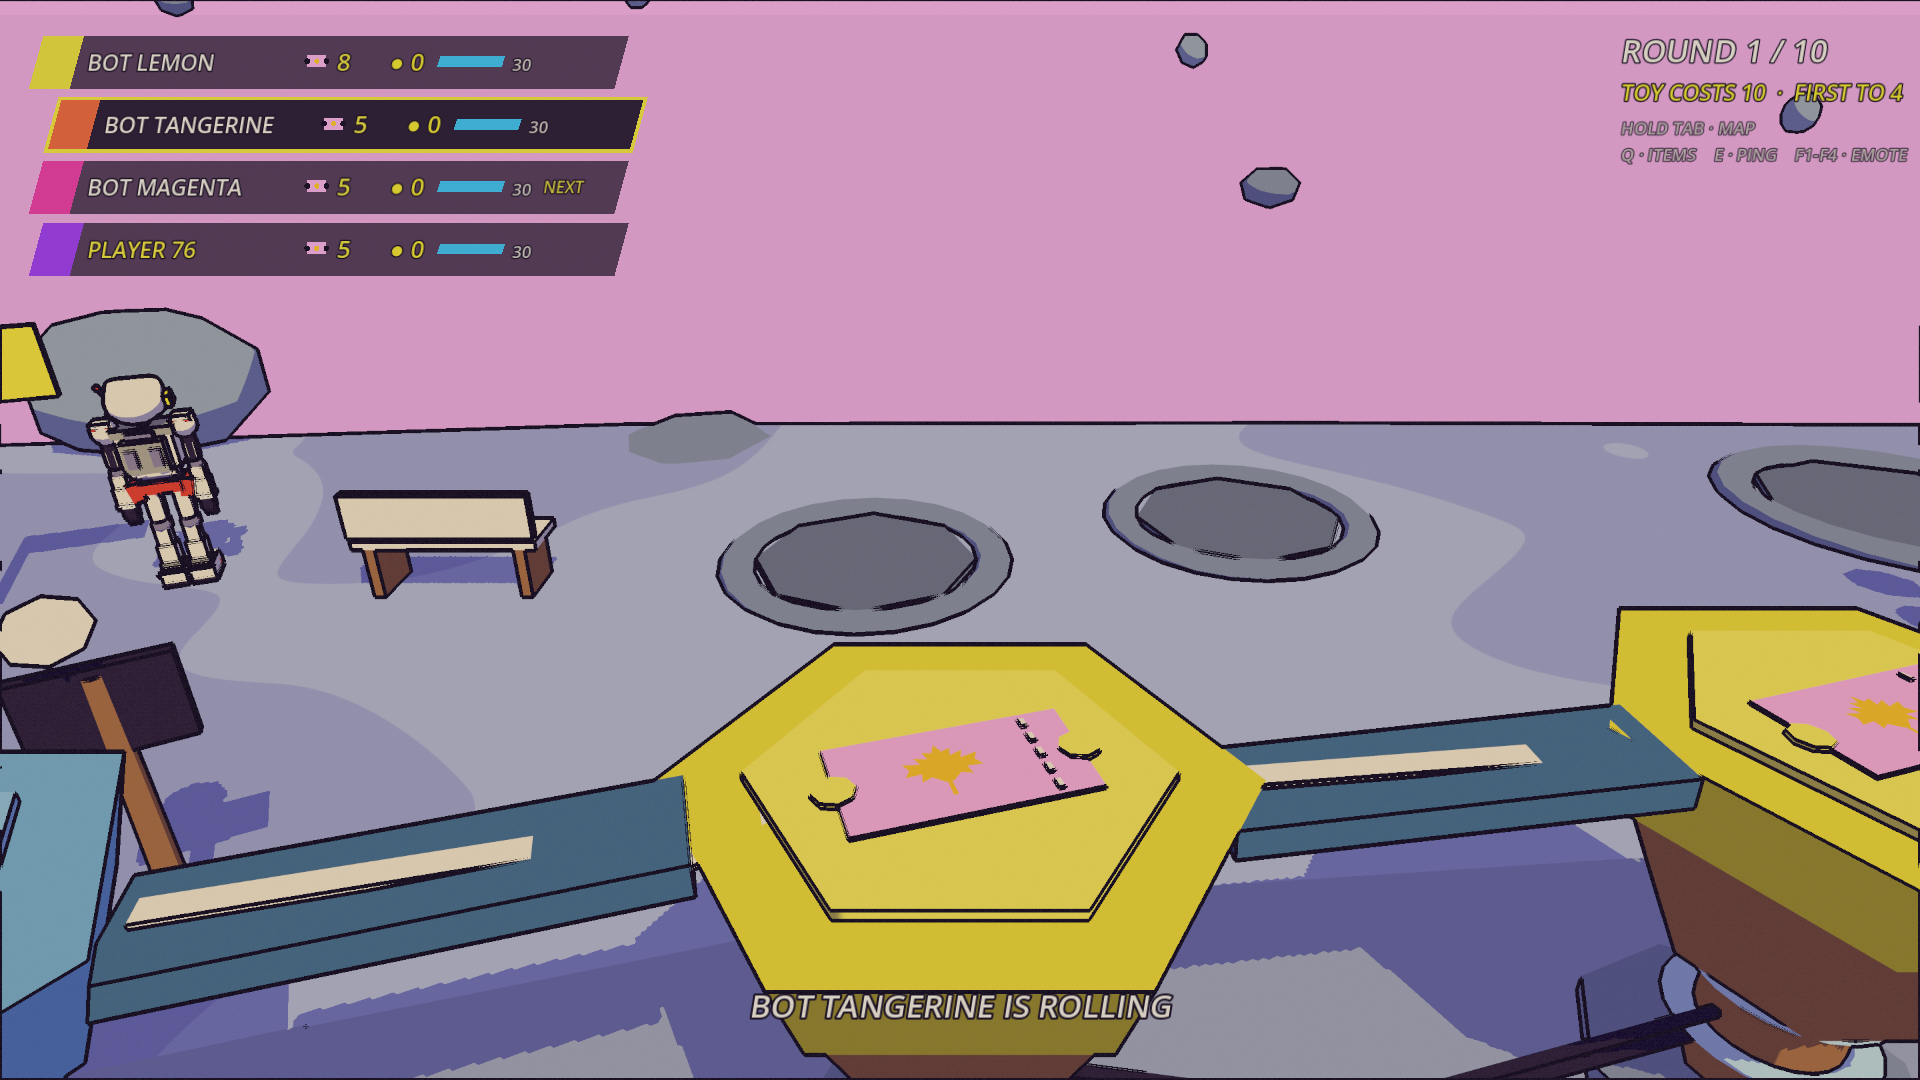
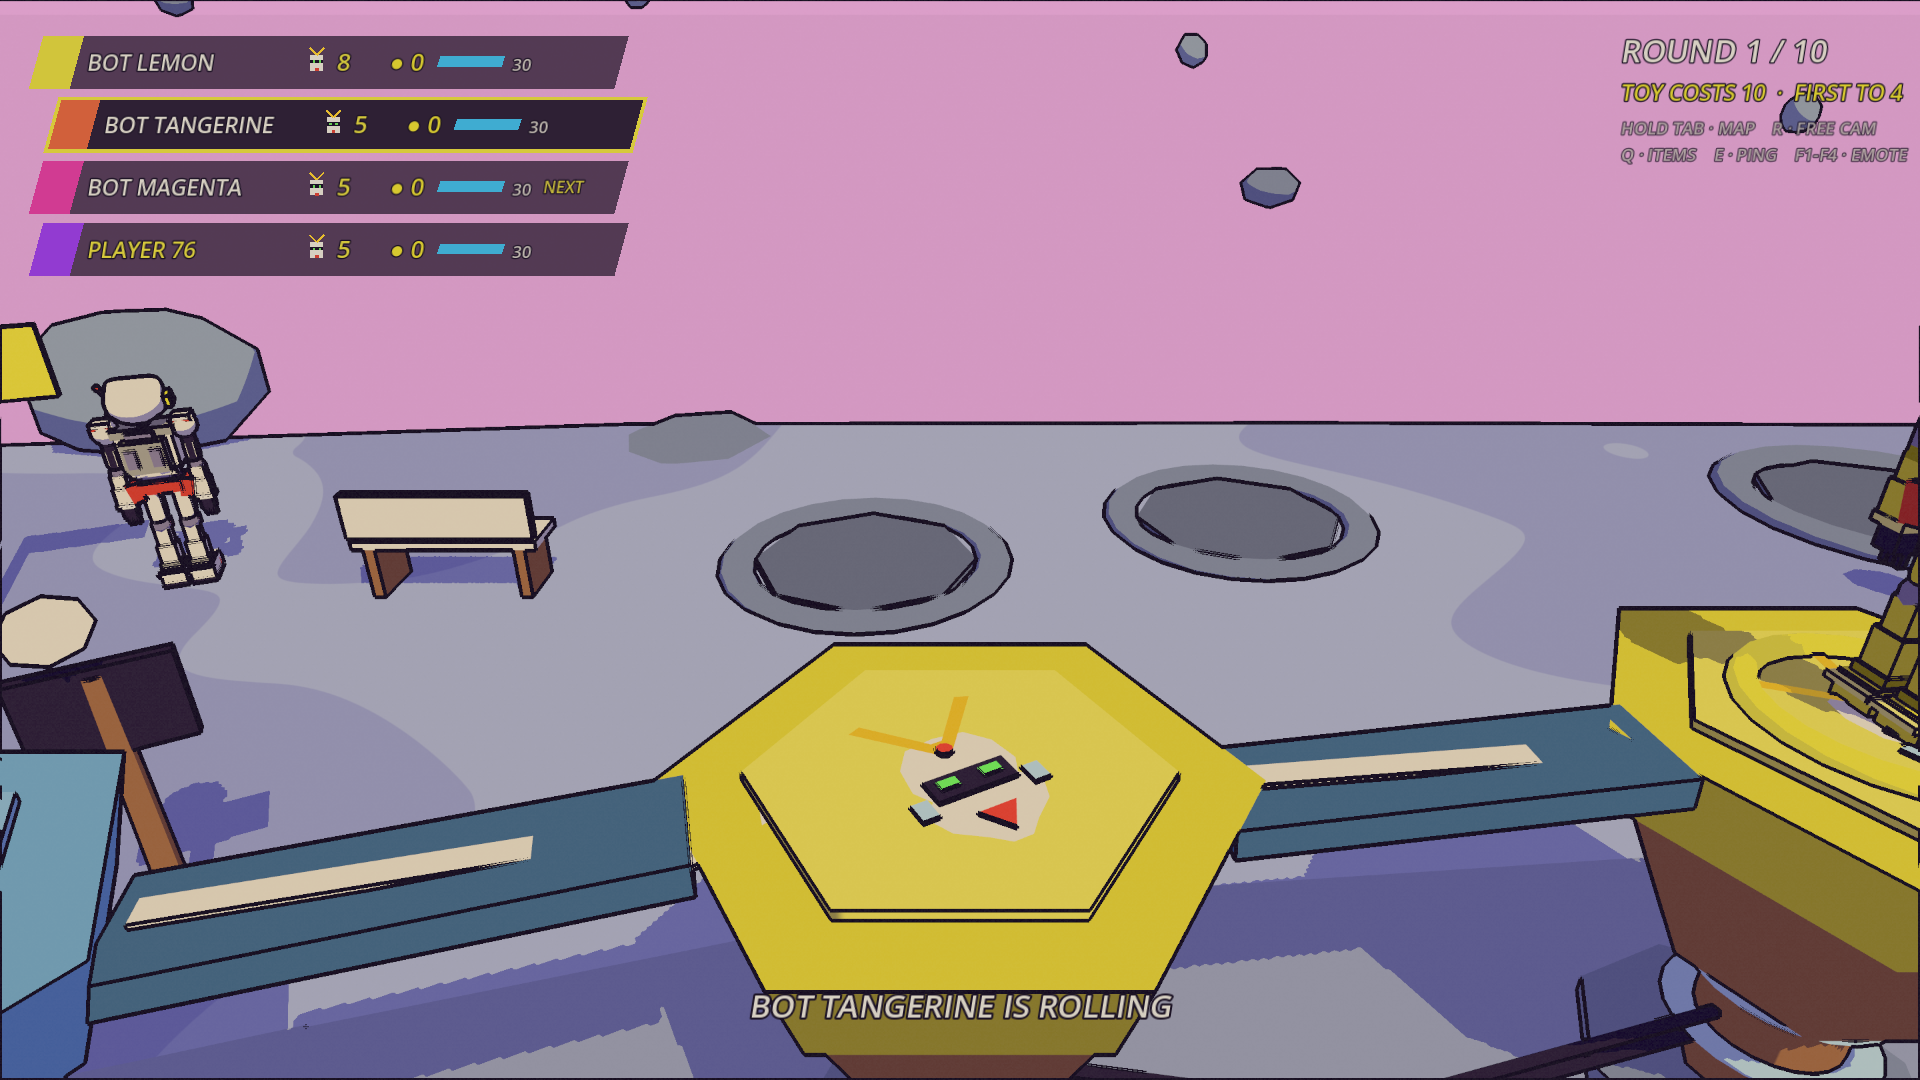
Free camera on your turn (R, WASD); a Gundam-style head and a present painted on the tiles
Sean's two notes: R toggles a free camera on the local turn before the roll,
WASD slides the look point over the map inside the slab, the roll or R brings
it back (a harness flag proves it). The currency spot wears a painted mecha
head and the HUD icon matches; the item spot a wrapped present.

diff --git a/DECISIONS.md b/DECISIONS.md
@@ -195,3 +195,4 @@ Append-only. One line per assumption: date, the decision, the reason. Newest at 
 - 2026-09-24 — Sean: "there's 127 spots? I thought we were doing around 80." The scale of the trace was mine (0.115 m a drawing pixel at the settled 3.7 m between spaces); it is 0.074 now, the whole map at 64 % of its size, the drawing unchanged: 82 spaces, the same 4 forks, 8 routes from the start back to it of 18–61 steps (mean 39.5 = 8.8 turns of the d8; the inner loop through the curve and the lens 4 turns, the big left loop 13.6), min spacing 3.09 m, longest hop 4.13 m, the rocket P2 → L3, the machine spots L19 (the left dome) and P11 (the right dome) at 9.1 / 9.0 m from their rim points. The lens arcs are pushed a few pixels apart from the drawing so the spaces on them keep 3 m between (they met the start at too narrow an angle at this scale). The blocks refitted to the smaller open spaces: HAB 2 (r 7) in the big loop, the farm (r 7) in the bay with the rocket, the rover's pad (r 4.8) and the crater park (r 4.5) in the top loop, a solar row in the rectangle; the depot (hangar, crane, cargo), the power plant (reactor, towers) and the solar sliver under the lens do not fit and are out (their builders stay for a bigger board). Measured at 1080p on the 5090 (host + 2 bots, 12 s): GPU 0.62 ms mean / 0.63 p95 (the 127-space trace 0.67 / 0.97), render CPU 0.73 ms, PACING 1 frame of 1614 over 1.5× the median, 0 pipelines compiled while playing; the look builds over 19 frames, the longest chunk the annexes at 18–23 ms. `tools/check_all.sh` green (81 tests, determinism identical, the headless four-seat match). All seven board frames retaken; the map frame's STYLE numbers saturated 4 %, grey 24 %, dark 5 %, v95 0.83.
 - 2026-09-24 — Sean's six notes, each scoped to its object, then "switch back to the previous map with 127 spaces": the trace is at 0.115 m a pixel again (the 82-space board of the note before lasted one commit; the arcs, blocks and ids are the 127 board's: the rocket P4 → L5, the spots L31 and P18, routes 27–93 steps). (1) "was that the same mars rover as before? the other one seemed different": there were two, the parked buggy of the first moon pass (2026-09-19: a box body and cab on four wheels) and the driving buggy of the detail pass (2026-09-20: a panel, an antenna light, hubs); one design now, the driving one's plus a cab window and a little dish (`BoardDressing._rover`), parked on the rover's pad and driving the rim road; the view's buggy prop is gone. (2) A radio tower (`_block_radio`: a tapering lattice mast with cross braces, three ring antennas up it, a platform with a big dish and a small one, guy lines to anchor blocks, a cabin, a red light on top and a cyan one half way), two of them in the margin (behind the start, and at the bottom-right corner), and with them a crashed satellite (nose-down, a panel bent up, a dish askew, a scorch mark, debris, a dying light), a rock arch (two boulders with a slab across, along the rim), a telescope dome with instrument boxes: all zones from the generator, in the margin at 0.93 of the way out. (3) The emblems are painted on the tile (his: "the events on the spots (item, tickets, damage) they should be painted on the tile"): flat pieces 5 cm over the face, children of the tile, still; tickets two tangerine stubs with notches punched in the inset's tone, a perforation and a label band; damage an ink mine with eight points on a paper disc; the item a paper five-point star with three sparkles (his: "the white question mark is ugly. think of something else"; the bag is gone); and the new HEALTH spot (his: "add a green spot for a health tile, it restores 6 HP. it can be like a green med bag icon"): a green tile (`board.heal` in the palette, HSV 128° 0.52 0.74), a paper med bag with a handle and a green cross, `space_effects.heal` 6 restored on landing up to the full bar (`_land`, a "heal" event, a "+6 HP" label, a two-note chime), 12 of the 127 spaces (10 % of the main streets' mix), tested. The safe spot keeps its dome and the start its flag. (4) The space station (his: "in the bottom middle part of the map, to take up space. spend a lot of time to make it look detailed"): the slab bulges there (two ground points at z 36 join the hull, `STATION_GROUND`), and on a plated apron with paint lines stand a hub on a plinth with two bands, eight windows, a glass cupola on six struts, a mast with a red light and an airlock marked LAB 1; a ring corridor on four spokes with collars and twelve windows; four modules on the ring's diagonals with end caps and windows, one the docking module with a hatch ring and a green airlock light, one with a roof rail; two framed solar wings on a boom through the hub with lights at their tips; a radar dish turning on its stand (`_spinners`); a fuel tank on a pipe with a valve wheel; ten landing lights round the apron (`_block_station`, the zone at (−8, 34), r 6.5). (5) The status rows are 500 px (were 600) with the steps-to-the-machine count gone (his: "you don't need to put '41 to'"), the name at 18 px with 180 px of room (the ticket stub had sat on BOT TANGERINE's tail), the HP bar, its number, NEXT and the item chips moved up. Measured at 1080p on the 5090 (host + 2 bots, 12 s): GPU 0.63 ms mean / 0.65 p95, render CPU 0.74 ms, PACING 0 frames over 1.5× the median, 0 pipelines compiled while playing. `tools/check_all.sh` green (82 tests, determinism identical, the headless four-seat match). Frames: the seven board frames retaken, `board_station.png` and `board_radio.png` new; the map frame's STYLE numbers saturated 3 %, grey 21 %, dark 4 %, v95 0.83. His verdict pending.
 - 2026-09-24 — Sean's three notes, each scoped to its object. (1) "add another structure near the center, like a space themed building, add detail": MISSION CONTROL (`BoardDressing._block_control`, the "control" zone east of the greenhouses at (13, 0.5) m, r 4.2): two storeys on a plinth, a window band round the ground floor, the upper floor set back with a wide front window and a railed roof, stairs up the side with a rail, an airlock with a CONTROL sign and a lit lamp, a big dish on a mount, two masts with red and cyan lights, a radar bar turning on the roof, floodlight masts at the front corners, a flag. (2) "a couple more rockets around the map, they will just be decoration": the taxi's shape as a builder at a scale (`_rocket_prop`), one standing on a small lit pad in the west margin (160°, 0.945 of the way out: at 0.93 it sat 4.1 m from L16) and one lying on a service cradle inside the rectangle with a ladder against it, a toolbox and a hose (`_block_rocket_pad`, `_block_rocket_cradle`); the pad rocket had first gone to the east margin, 10 m from the cradle one, so it moved. (3) "change the ticket on the spot to just 1 ticket and make it pink, same color as the sky. and try to put a maple leaf on the ticket, a small golden one": one stub now, the sky's pink (`board.sky_bottom`), the punched notches and the perforation kept, and a small golden maple leaf (HSV 44° 0.8 0.88) painted on it as a flat polygon (`MAPLE_LEAF`, 29 points, triangulated with Geometry2D and built both windings, `_flat_polygon`); the HUD's stub is the same pink with a golden dot for the leaf at that size. Measured at 1080p on the 5090 (host + 2 bots, 12 s): GPU 0.62 ms mean / 0.64 p95, render CPU 0.68 ms, PACING 0 frames over 1.5× the median. `tools/check_all.sh` green (82 tests, determinism identical, the headless four-seat match). Frames: `board_control.png`, `board_rocket_cradle.png`, `board_ticket.png` new; the map, overview and turn frames retaken. His verdict pending.
+- 2026-09-24 — Sean's two notes (a third was empty). (1) "when it's our turn, we can press R to toggle free cam mode, and use WASD to move the camera around the map": on the local player's turn, before the roll, R (the reload key, idle on the board) toggles the free camera (`BoardView.set_free_cam`): the look point leaves the pawn and WASD slides it over the map at 16 m/s, never past 0.95 of the slab, the camera 1.6× its distance back and following at the fast rate; R again, the roll ("roll" playback) or the turn passing brings it home. The choice phase keeps A/D for the fork, so the free camera is the roll phase's only. The help line reads "HOLD TAB · MAP    R · FREE CAM", the prompt while it is on "FREE CAM · WASD MOVE · R BACK · SPACE ROLLS". `--free_cam_test` turns it on 1.5 s into the local turn and holds S and A from 2 s (with `--screenshot_event=myturn --screenshot_at=5` for the frame; the local seat rolls last in a harness match, so a plain `--screenshot_at` misses the turn). (2) "I don't like the star for item, think of something else. I don't like the pink ticket. lets scrap tickets, can you do a gundam style character": the item spot is a wrapped present painted from above (a paper box, the accent ribbon crossing it, a bow of two loops and a knot); the currency spot is a Gundam-style head painted flat (`GUNDAM_HELMET`, `GUNDAM_FIN`: a paper helmet with side vents, a gold V-fin with a red jewel, an ink face band with two green eyes, grey cheek vents, a red chin), and the HUD's currency icon is the same little head. The currency is still counted and named as tickets in the HUD and the rules (his "scrap tickets" read as the ticket emblem; if he means the name too, it is a string rename). `tools/check_all.sh` green (82 tests, determinism identical, the headless four-seat match). Frames: `board_free_cam.png` new, `board_ticket.png` and `board_turn.png` retaken. His verdict pending.

diff --git a/CLAUDE.md b/CLAUDE.md
@@ -51,14 +51,16 @@ that travels with the repo.
   on the map, on its pad by the pad space (his: "there's only gonna be 1 rocket"): reaching that space with
   10 tickets offers a flight to the landing spot (its own prompt, not a fork). The currency is TICKETS, like
   an arcade's (not coins). No teleport ("event") space. The spaces' emblems are PAINTED ON THE TILE, still
-  (his notes: nothing hovering, then "painted on the tile"): ONE PINK TICKET (the sky's pink) with a small GOLDEN
-  MAPLE LEAF on it (his ask), a star for an item (the "?" bag was ugly, his word), a mine for damage, a med bag for the HEALTH spot (+6 HP, a green tile, his ask). ONE
+  (his notes: nothing hovering, then "painted on the tile"): a GUNDAM-STYLE HEAD on the ticket spot (his ask,
+  after the pink ticket with a maple leaf was disliked the same hour), a WRAPPED PRESENT for an item (the "?" bag
+  and then the star were disliked), a mine for damage, a med bag for the HEALTH spot (+6 HP, a green tile, his ask). ONE
   rover design (the driving buggy's), parked on its pad and driving the rim. The SPACE STATION at the bottom
   middle is his ask ("to take up space... detailed"): keep it. Cute space things stay (the crew, the saucer
   and its pilot, the lander, the balloon, the radio towers, the crashed satellite, the rock arch, the
   telescope, the two decorative rockets, mission control near the centre, the drone, the orbiting station,
   the freighter). The status rows are 500 px with no steps-to-
-  machine count (his: "you don't need to put '41 to'"). Pink sky kept, moon-base theme under it, close Pummel-Party camera on ONE fixed heading (south of the pawn looking north, whichever way it
+  machine count (his: "you don't need to put '41 to'"). R on your turn (before the roll) toggles a FREE CAMERA
+  that WASD slides over the map (his ask). Pink sky kept, moon-base theme under it, close Pummel-Party camera on ONE fixed heading (south of the pawn looking north, whichever way it
   travels; 2026-09-23), eight-sided die, no water.
   The vending machine lives on the two annexes only (his "original two spots", the bridges to the
   egg domes; the district names their rim angles, the two ends of main street); never add machine pads or more spots.

diff --git a/README.md b/README.md
@@ -37,7 +37,8 @@ fork buttons at a fork; Q opens the item hotbar on your turn, 1–9 or the wheel
 laser and the claw aim with the mouse and fire or grab on a click, the bomb shows a ring of range and
 throws where you click (right click puts any of them away). Hover LEFT or
 RIGHT at a fork to see where the move lands; hold Tab for the whole board, and in a minigame
-for the scoreboard.
+for the scoreboard. On your turn, before rolling, R toggles a free camera that WASD slides over
+the map (R again, or the roll, brings it back).
 E (or middle-click) pings the tile under the cursor for everyone; F1–F4 send an emote. Sound is synthesised at startup;
 nothing is loaded from disk.
 
@@ -58,7 +59,7 @@ machine spot, and a bridge runs from the space to the annex); pass or land on th
 10 tickets and a toy pops out, then the machine moves to the other annex. First to 4 toys wins
 on the spot (the host sets FIRST TO, TURN TIME, ROUND CAP and TOY PRICE in the lobby's MATCH
 SETTINGS; `--toys_to_win=N`, `--toy_price=N`, `--machine_at=ID` and `--rocket_test` in the
-harness). Spots, their emblems painted on the tile: tickets (+3, one pink ticket with a golden maple leaf), item (a star: bomb,
+harness). Spots, their emblems painted on the tile: tickets (+3, a Gundam-style head), item (a wrapped present: bomb,
 portal, shield, the laser gun or the claw), damage (−3 tickets, a mine), health (+6 HP, a med
 bag on a green tile), and one safe spot
 (cyan dome) that hands out a SHIELD, a glowing aura that eats the next bomb, damage spot, laser

diff --git a/BOARDPLAN.md b/BOARDPLAN.md
@@ -93,12 +93,13 @@ right click puts any of them away; the portal picks a player.
 - Spaces are six-sided floating tiles (cel material by type: blank in the field colour, ticket
   in LEMON, lose in the danger red, item in LAGOON, goal in paper with a ring), ink outlines
   from the post pass, the swirl sky. Each special space's emblem is painted on the tile
-  (2026-09-24): one pink ticket with a small golden maple leaf, a star for an item, a mine for
+  (2026-09-24): a Gundam-style head on the ticket spot, a wrapped present for an item, a mine for
   damage, a med bag for the health spot; the safe spot keeps its dome, the start its flag. The board palette is its own map entry.
 - Pawns are the same capsule-and-head silhouette as the arena, in identity colours, hopping
   space to space (`board.hop_seconds` per step) with a small burst on landing.
 - Camera: third person behind and above the active pawn, easing between pawns on turn change,
-  pulling back at forks so both branches are visible.
+  pulling back at forks so both branches are visible. On your turn, before the roll, R toggles a
+  free camera that WASD slides over the map (`BoardView.set_free_cam`), clamped to the slab.
 - HUD in the menu language: a turn strip of player cards (tickets, Bombas, items), the dice as a
   slammed numeral, the ROLL prompt, fork arrows (A/D or click), item buttons (1/2), round
   counter. Board music is the menu loop for now.

diff --git a/STATUS.md b/STATUS.md
@@ -899,6 +899,9 @@ identical, the headless four-seat board match on the new board.
   a CONTROL sign), two decorative rockets (one standing on a pad in the west margin, one lying on
   a cradle in the rectangle), and the ticket repainted as one pink stub with a small golden maple
   leaf (the HUD stub to match).
+- **Two more**: a free camera on your turn (R toggles, WASD slides it over the map, the roll brings
+  it back; `--free_cam_test`), and the emblems again: a Gundam-style head on the currency spot and a
+  wrapped present on the item spot (the pink ticket and the star did not last the hour).
 
   | BOMBA BAY | district (morning) | drawn (evening) |
   |---|---|---|
